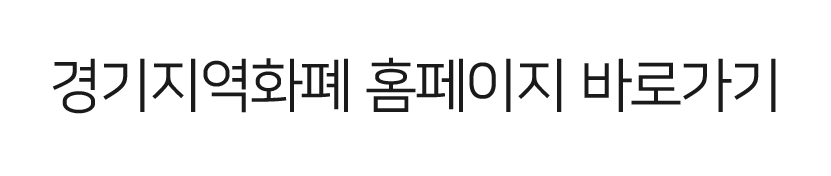
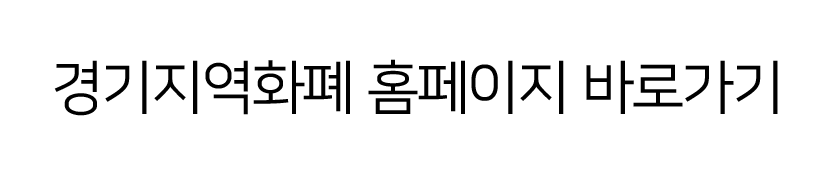
button

Changed region(s): [[0.0602, 0.3125, 0.9326, 0.6534]]

diff --git a/GMMproject/odso/static/css/style.css b/GMMproject/odso/static/css/style.css
@@ -70,11 +70,11 @@ main{
 }
 
 #gamang{
-    margin:5px;
-    color: black;
+    margin:7px;
+    color: white;
     position: absolute;
     z-index: 2;
-    font-weight: 600;
+    font-weight: 500;
     transform: translate(0,30px);
 }
 
